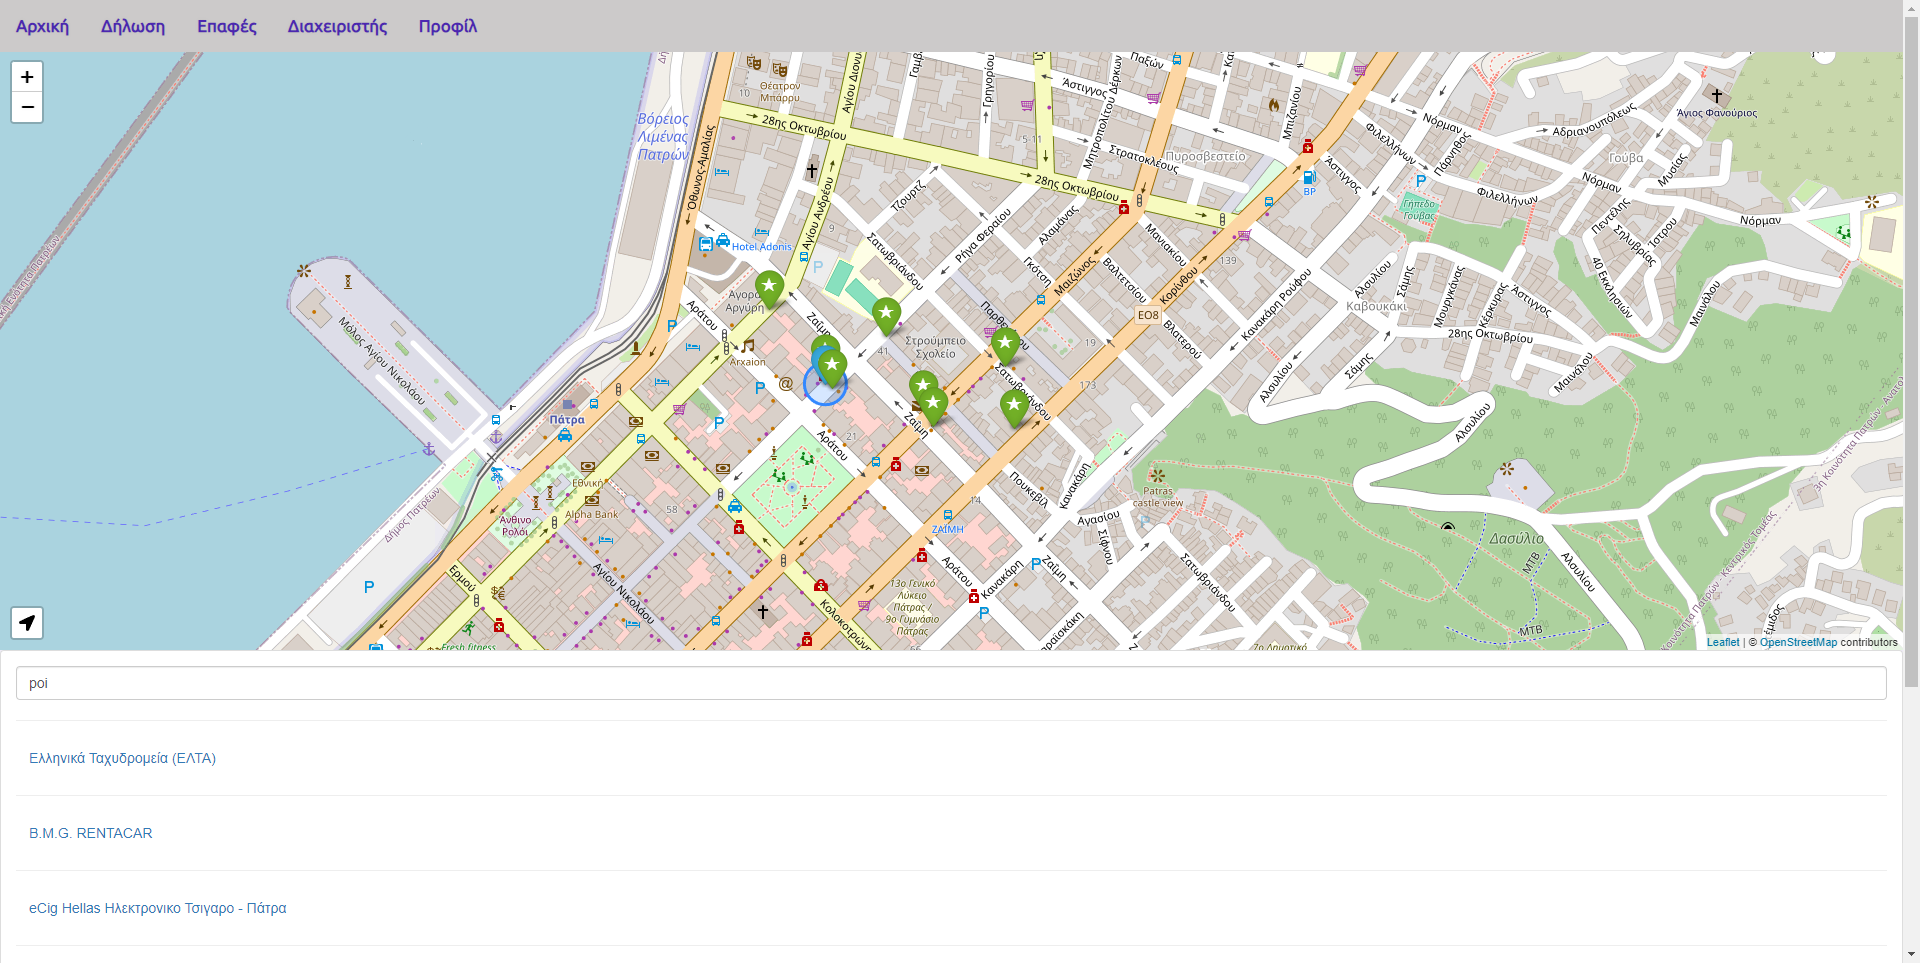
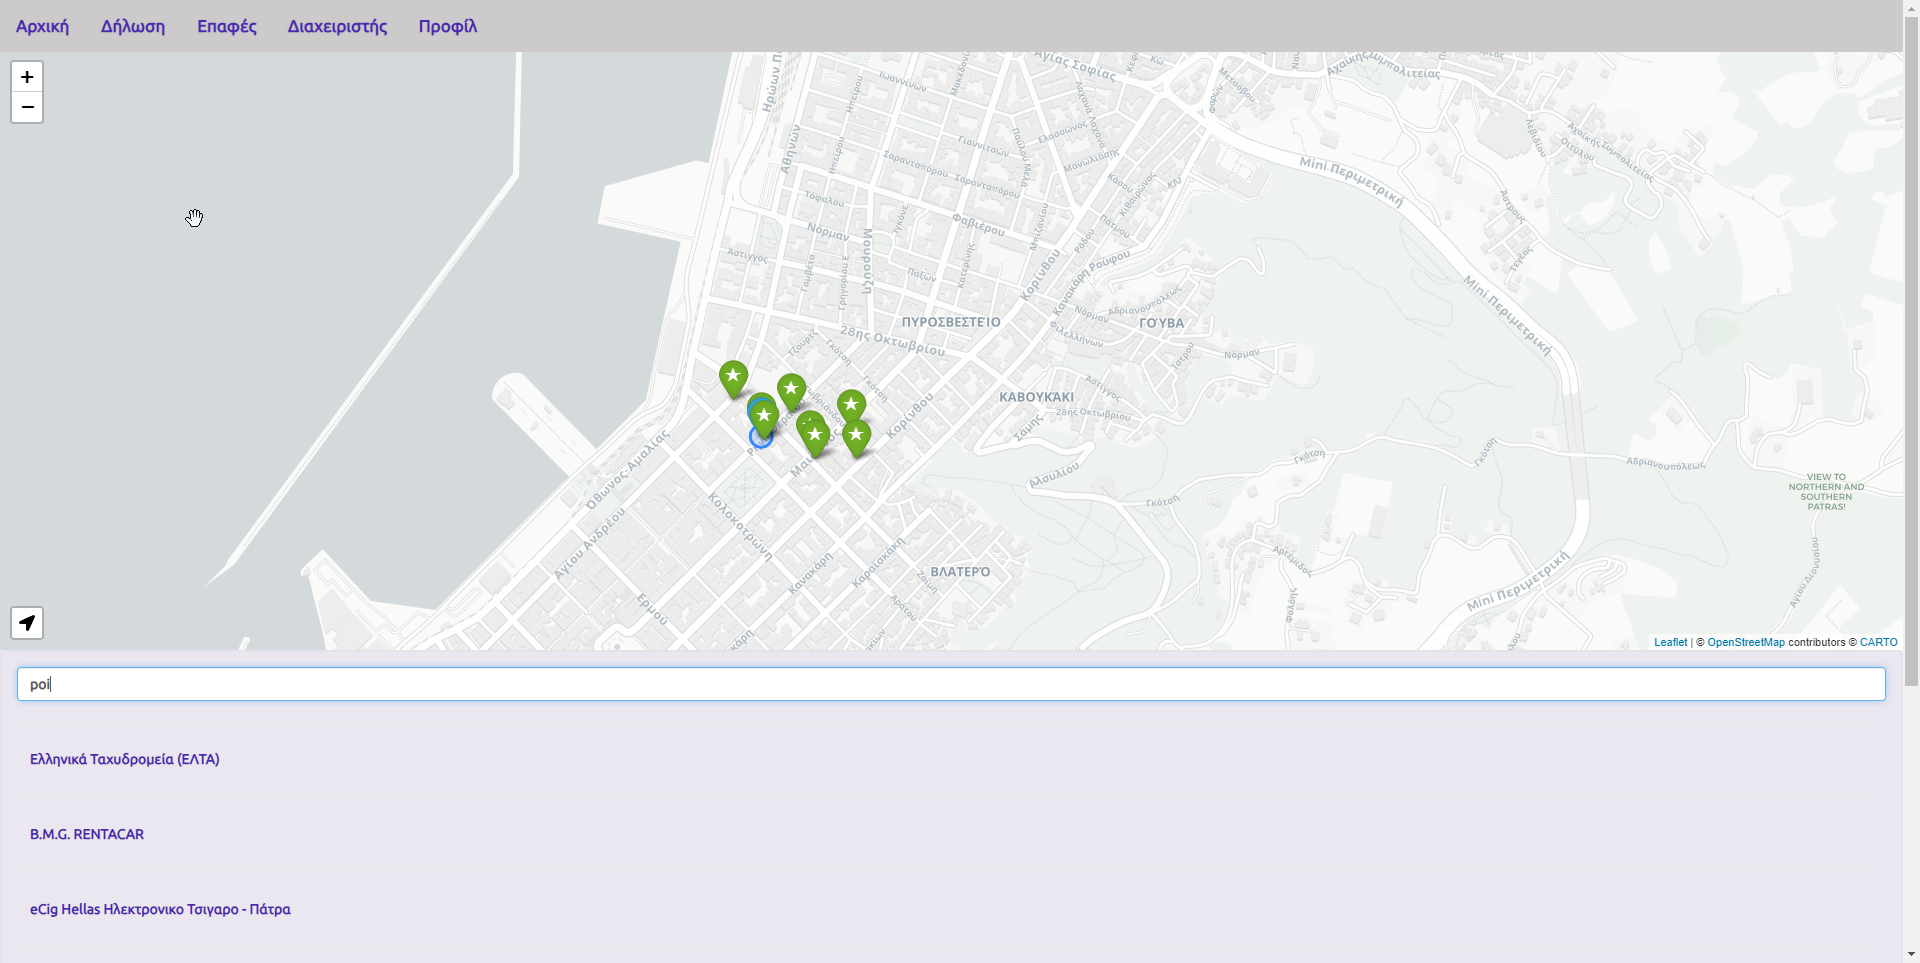
changed map styles to light

diff --git a/public/map.js b/public/map.js
@@ -23,13 +23,15 @@ const fixTime = [
 ];
 
 const myMap = L.map("map");
+
 const tileUrl =
-    "https://{s}.tile.openstreetmap.org/{z}/{x}/{y}.png";
+    'https://{s}.basemaps.cartocdn.com/light_all/{z}/{x}/{y}{r}.png';
 const attribution =
-    '&copy; <a href="https://www.openstreetmap.org/copyright">OpenStreetMap</a> contributors';
+    '&copy; <a href="https://www.openstreetmap.org/copyright">OpenStreetMap</a> contributors &copy; <a href="https://carto.com/attributions">CARTO</a>';
 const tiles = L.tileLayer(tileUrl, {
     attribution
 });
+
 tiles.addTo(myMap);
 const myLayer = L.layerGroup().addTo(myMap);
 const circlesLayer = L.layerGroup().addTo(myMap);
@@ -113,7 +115,7 @@ function submitData(e) {
             if (isWithinMapBounds(POIdata.lat, POIdata.lng)) {
                 if (index >= 0) {
                     searchResults.innerHTML += "<hr>";
-                    searchResults.innerHTML += `<button type="button" class="btn btn-link" onclick="focusOnMarker(${item.coordinates.lat}, ${item.coordinates.lng})">${item.name}</button>`;
+                    searchResults.innerHTML += `<button type="button" class="btn btn-link" onclick="focusOnMarker(${item.coordinates.lat}, ${item.coordinates.lng})"><span style="font-family: 'Ubuntu', sans-serif; color: #4c27b0; font-weight: bold;">${item.name}</span></button>`;
                 }
                 
                 const distance = calculateDistance(POIdata.lat, POIdata.lng, fake.lat, fake.lng);

diff --git a/public/style.css b/public/style.css
@@ -123,6 +123,16 @@ font-family: 'Ubuntu', sans-serif;
 
 }
 
+.boxnew {
+  color: rgb(38, 50, 56);
+  font-weight: 700;
+  font-size: 14px;
+  letter-spacing: 1px;
+  background: rgba(136, 126, 126, 0.04);
+  border: 2px solid rgba(0, 0, 0, 0.02);
+  font-family: 'Ubuntu', sans-serif;
+  }
+
 form.form1 {
     padding-top: 40px;
 }
